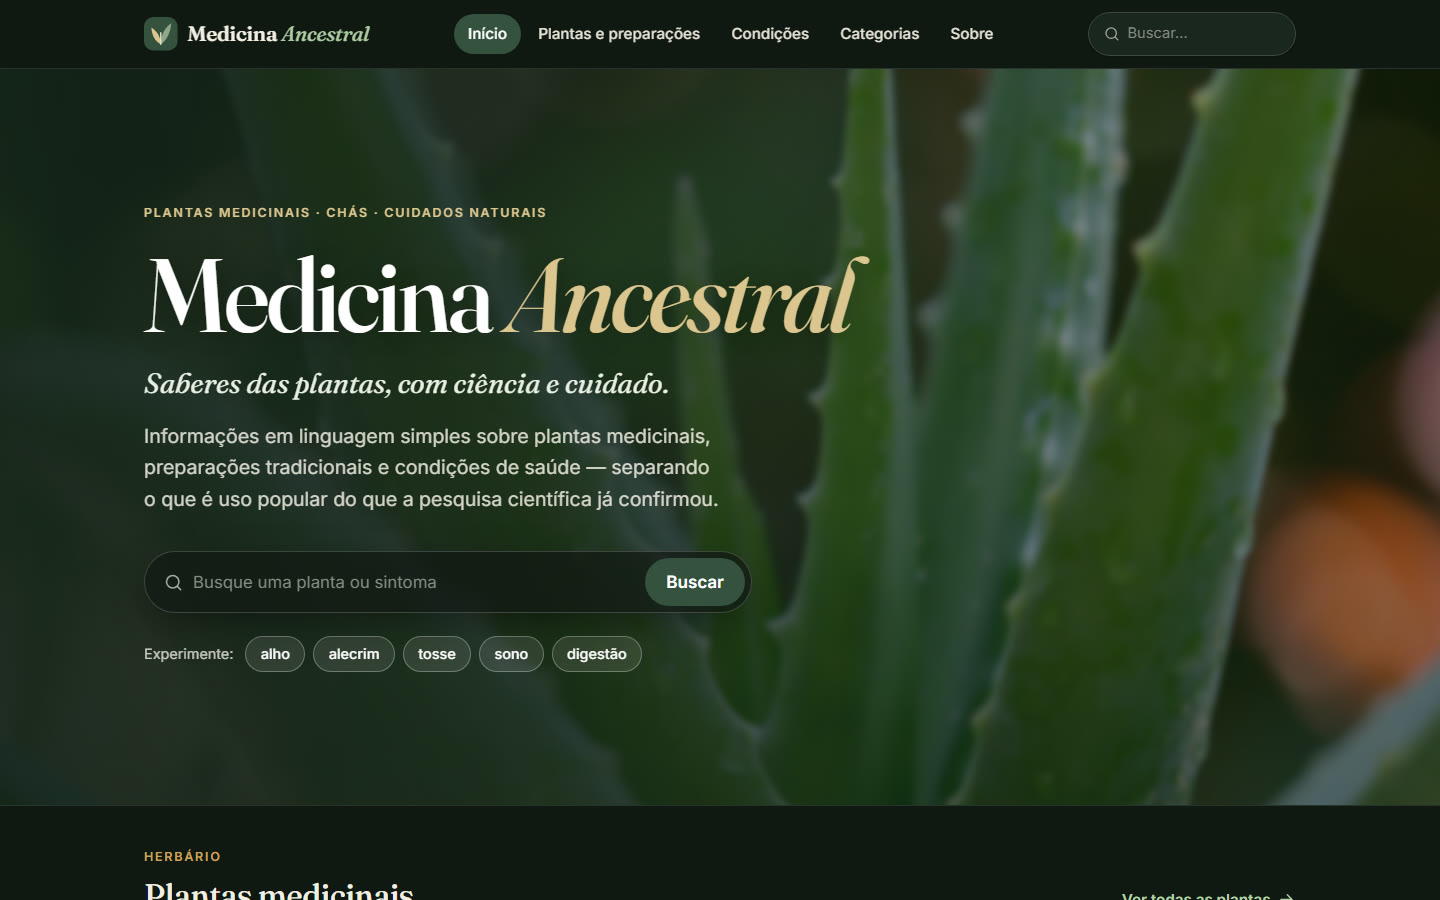
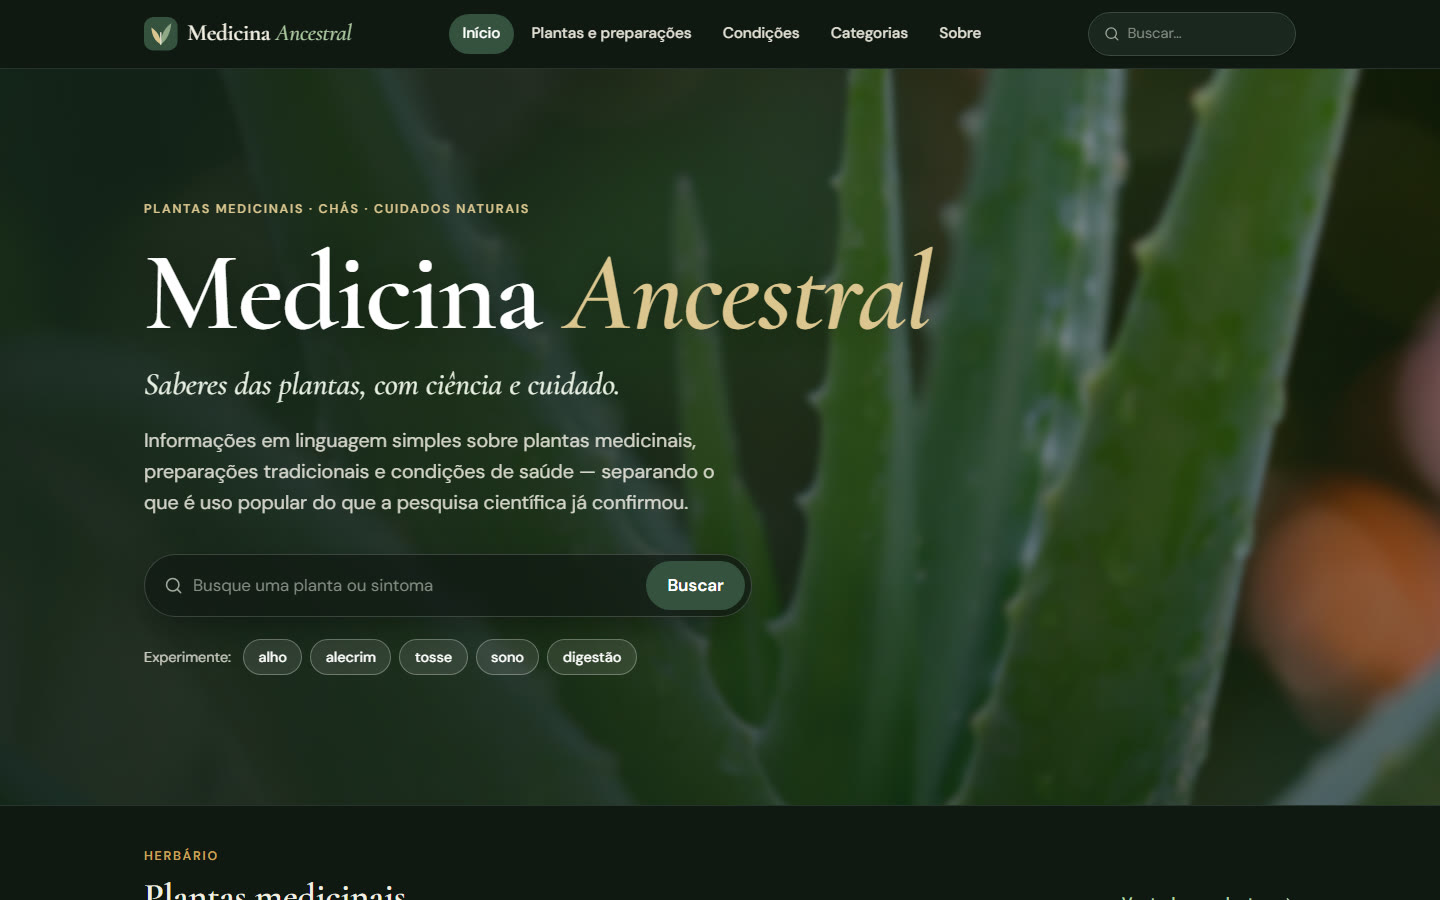
Troca fontes: Cormorant Garamond nos títulos e DM Sans no texto
Ajusta pesos e tamanhos dos títulos para a nova fonte e atualiza
os prints do README.

diff --git a/src/styles/global.css b/src/styles/global.css
@@ -47,27 +47,26 @@ h1,
 h2,
 h3 {
   font-family: var(--font-heading);
-  font-optical-sizing: auto;
-  font-weight: 500;
+  font-weight: 600;
   color: var(--heading);
-  line-height: 1.15;
-  letter-spacing: -0.01em;
+  line-height: 1.1;
+  letter-spacing: 0;
   margin: 0 0 0.5em;
   text-wrap: balance;
 }
 
 h1 {
-  font-size: clamp(2.2rem, 5vw, 3.4rem);
-  letter-spacing: -0.02em;
+  font-size: clamp(2.5rem, 5.5vw, 3.8rem);
+  letter-spacing: -0.01em;
 }
 
 h2 {
-  font-size: clamp(1.5rem, 2.6vw, 1.95rem);
+  font-size: clamp(1.75rem, 3vw, 2.25rem);
   margin-top: 1.75em;
 }
 
 h3 {
-  font-size: 1.2rem;
+  font-size: 1.4rem;
   font-weight: 600;
 }
 
@@ -213,7 +212,7 @@ img {
   text-decoration: none;
   color: var(--heading);
   font-family: var(--font-heading);
-  font-size: 1.3rem;
+  font-size: 1.45rem;
   font-weight: 600;
   letter-spacing: -0.01em;
   white-space: nowrap;
@@ -518,10 +517,10 @@ img {
 .hero__title {
   margin: 0;
   color: #fff;
-  font-size: clamp(3rem, 9vw, 6.5rem);
-  font-weight: 500;
-  line-height: 1;
-  letter-spacing: -0.03em;
+  font-size: clamp(3.2rem, 9.5vw, 7rem);
+  font-weight: 600;
+  line-height: 0.95;
+  letter-spacing: -0.015em;
   text-shadow: 0 2px 24px rgb(0 0 0 / 30%);
 }
 
@@ -534,7 +533,7 @@ img {
   margin: 1.1rem 0 0;
   font-family: var(--font-heading);
   font-style: italic;
-  font-size: clamp(1.3rem, 2.6vw, 1.75rem);
+  font-size: clamp(1.45rem, 2.8vw, 1.95rem);
   line-height: 1.3;
   color: #e9efe3;
 }
@@ -713,8 +712,8 @@ img {
 
 .card h3 {
   margin: 0;
-  font-size: 1.4rem;
-  font-weight: 500;
+  font-size: 1.6rem;
+  font-weight: 600;
 }
 
 .card__link {
@@ -738,7 +737,7 @@ img {
   margin: 0;
   font-family: var(--font-heading);
   font-style: italic;
-  font-size: 0.98rem;
+  font-size: 1.08rem;
   color: var(--accent);
 }
 
@@ -818,8 +817,8 @@ img {
 
 .category-card__name {
   font-family: var(--font-heading);
-  font-size: 1.2rem;
-  font-weight: 500;
+  font-size: 1.35rem;
+  font-weight: 600;
   color: var(--heading);
   line-height: 1.25;
 }
@@ -1168,7 +1167,7 @@ img {
   margin: 0 0 0.9rem;
   font-family: var(--font-heading);
   font-style: italic;
-  font-size: 1.2rem;
+  font-size: 1.35rem;
   color: var(--accent);
 }
 

diff --git a/index.html b/index.html
@@ -10,7 +10,7 @@
     <link rel="preconnect" href="https://fonts.gstatic.com" crossorigin />
     <link
       rel="stylesheet"
-      href="https://fonts.googleapis.com/css2?family=Fraunces:ital,opsz,wght@0,9..144,400..700;1,9..144,400..700&family=Inter:wght@400;500;600&display=swap"
+      href="https://fonts.googleapis.com/css2?family=Cormorant+Garamond:ital,wght@0,500;0,600;0,700;1,500;1,600&family=DM+Sans:opsz,wght@9..40,400;9..40,500;9..40,600;9..40,700&display=swap"
     />
     <title>Medicina Ancestral</title>
   </head>

diff --git a/src/styles/variables.css b/src/styles/variables.css
@@ -26,8 +26,8 @@
   --border-strong: #3a4b40;
   --focus: #d9b25a;
 
-  --font-body: 'Inter', system-ui, -apple-system, 'Segoe UI', Roboto, sans-serif;
-  --font-heading: 'Fraunces', Georgia, 'Times New Roman', serif;
+  --font-body: 'DM Sans', system-ui, -apple-system, 'Segoe UI', Roboto, sans-serif;
+  --font-heading: 'Cormorant Garamond', Georgia, 'Times New Roman', serif;
 
   --radius-sm: 10px;
   --radius: 16px;

diff --git a/README.md b/README.md
@@ -130,7 +130,7 @@ src/
 
 - **Frontmatter:** usamos o pacote `yaml` em vez de `gray-matter`, porque o `gray-matter` depende de APIs do Node (`Buffer`, `fs`) e quebra no navegador.
 - **Busca:** local, sem acentos e sem diferenciar maiúsculas; pesquisa título, nomes de plantas, palavras-chave, categoria e texto.
-- **Visual:** estilo "botânico editorial" em tema escuro — fontes Fraunces (títulos) e Inter (texto) via Google Fonts, paleta em `src/styles/variables.css`, ícones SVG próprios em `components/Icon` (cada categoria tem um `icon` em `data/categories.ts`).
+- **Visual:** estilo "botânico editorial" em tema escuro — fontes Cormorant Garamond (títulos) e DM Sans (texto) via Google Fonts, paleta em `src/styles/variables.css`, ícones SVG próprios em `components/Icon` (cada categoria tem um `icon` em `data/categories.ts`).
 - **Vercel:** `vercel.json` redireciona todas as rotas para `index.html` (fallback de SPA).
 
 </details>
